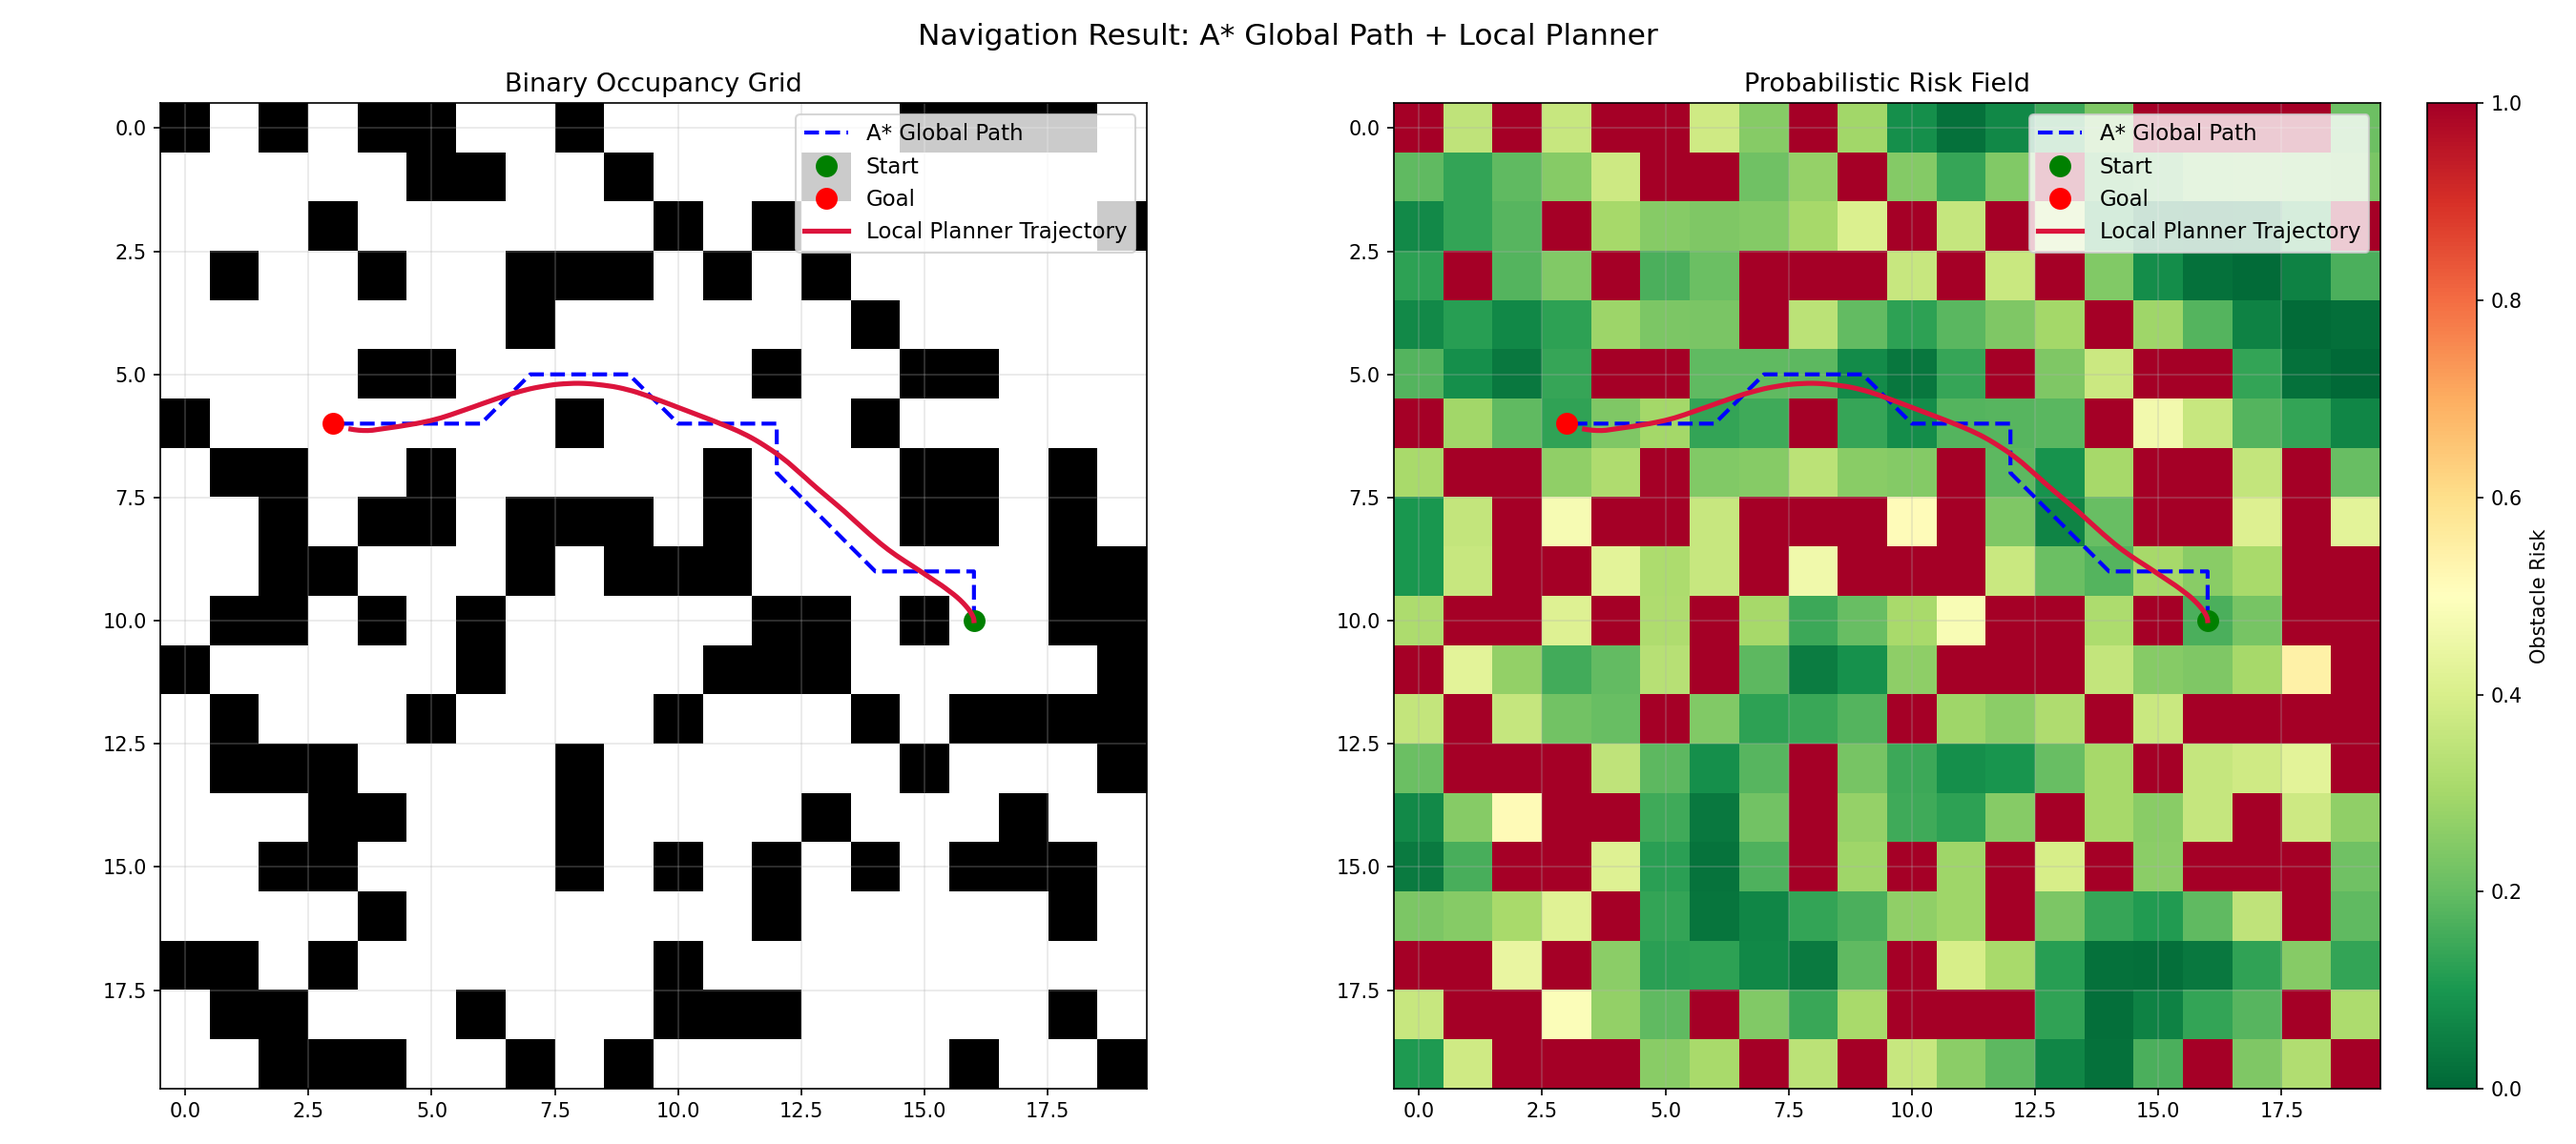
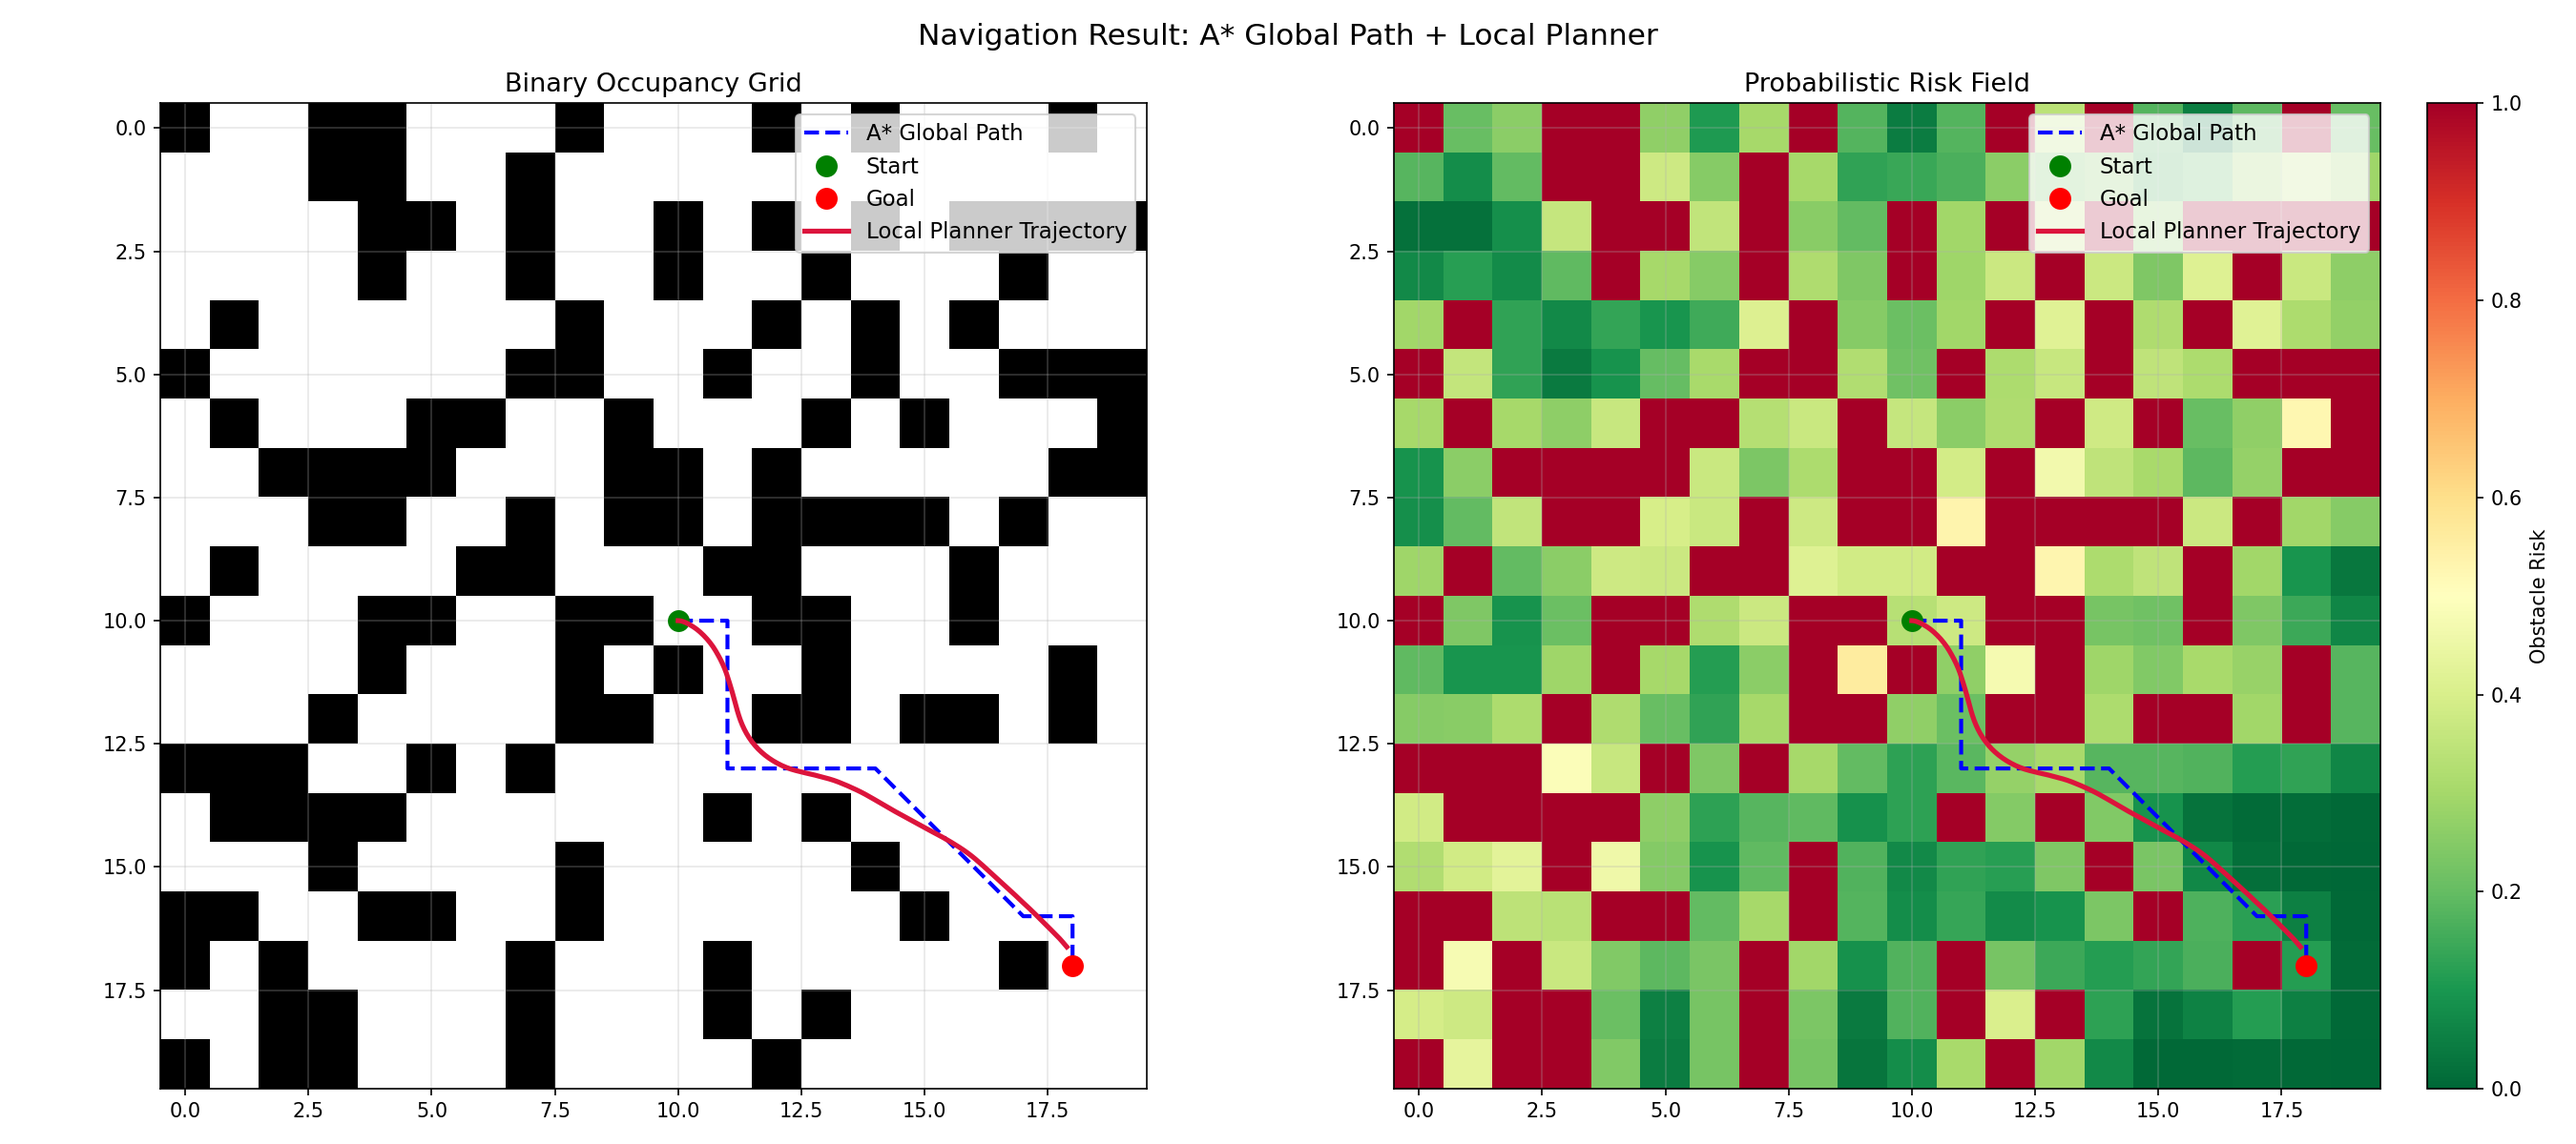
report adjustment

diff --git a/report/discussion.tex b/report/discussion.tex
@@ -3,11 +3,6 @@
 Building the system surfaced several instructive failure modes, most of them in the local
 layer.
 
-\paragraph{Dead ends (local planning alone).} As argued in Section~1, a local optimiser
-walks into U-shaped obstacles because escaping requires temporarily increasing the
-goal distance. My global A* layer removes this failure by planning a complete route the
-local planner only has to track.
-
 \paragraph{DWA rotate-in-place / frozen robot.} DWA fails structurally in clutter (0/25).
 From a standstill the acceleration-limited window admits only near-zero speeds, so a
 forward candidate barely displaces the robot over the horizon; the progress terms cannot
@@ -22,7 +17,7 @@ cell as infinite cost, which near corners can eliminate every forward option.
 full control sequences and softly averaging over rollouts, reaching 68\% of goals. Its
 remaining 32\% of failures occur in the tightest passages, where the sampling distribution
 rarely proposes the narrow feasible manoeuvre within the horizon; a longer horizon or more
-samples trades compute for a higher success rate. In these 32% there are some paths which are simply cannot be executed because of the map layout.
+samples trades compute for a higher success rate. In these 32\% there are some paths which are simply cannot be executed because of the map layout.
 
 \paragraph{Trade-offs.} Across both planners the recurring tension is speed vs.\ safety
 vs.\ efficiency: cautious weightings are safe but slow and freeze-prone, aggressive
